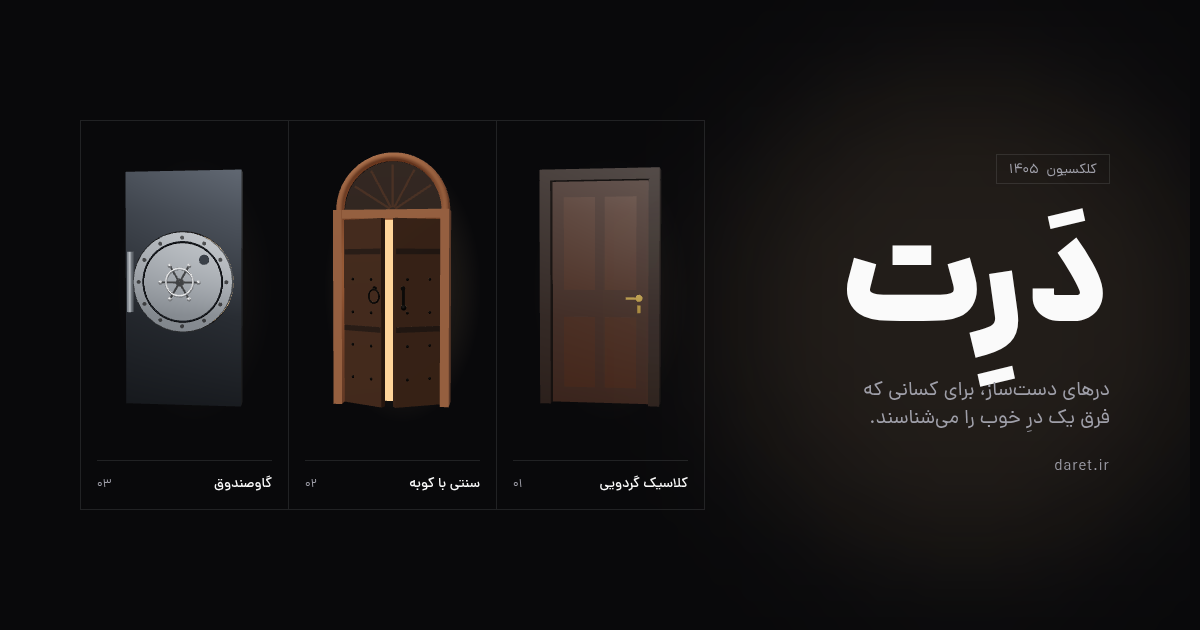
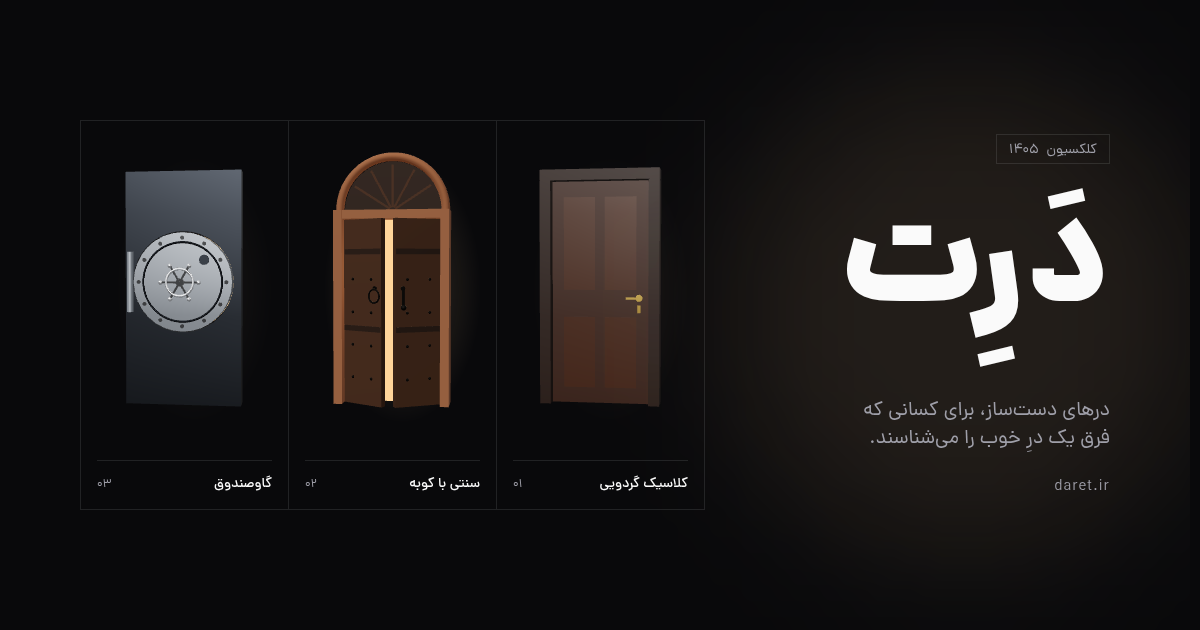
fix: fix the open-graph images

Changed region(s): [[0.7092, 0.2111, 0.925, 0.7841]]

diff --git a/app/og/page.tsx b/app/og/page.tsx
@@ -1,0 +1,54 @@
+import type { Metadata } from "next";
+
+import { notFound } from "next/navigation";
+
+import { DoorView } from "@/components/door-view";
+import { doors } from "@/lib/doors";
+
+// Dev-only source of `app/opengraph-image.png` and `app/twitter-image.png`. See .agents/docs/architecture.md#social-images.
+export const metadata: Metadata = { robots: { index: false } };
+
+const shown = [
+  { door: doors[0], open: 0 },
+  { door: doors[7], open: 0.3 },
+  { door: doors[8], open: 0 },
+];
+
+export default function SocialCardPage() {
+  if (process.env.NODE_ENV === "production") notFound();
+
+  return (
+    <div className="fixed inset-0 flex items-center justify-between gap-12 px-20">
+      {/* Keep the dev-tools badge out of the screenshot. */}
+      <style>{"nextjs-portal { display: none; }"}</style>
+      <div className="relative isolate flex flex-col items-start gap-6">
+        <div
+          aria-hidden
+          className="absolute top-1/2 left-1/2 -z-10 size-120 -translate-1/2 rounded-full bg-light/10 blur-3xl"
+        />
+        <span className="border px-3 py-1 text-sm tracking-[0.3em] text-muted-foreground">کلکسیون ۱۴۰۵</span>
+        {/* The kasra hangs below the tight line box; the padding keeps it off the tagline. */}
+        <h1 className="pb-10 text-[9rem] leading-none font-black">دَرِت</h1>
+        <p className="max-w-72 text-xl text-balance text-muted-foreground">
+          درهای دستساز، برای کسانی که فرق یک درِ خوب را میشناسند.
+        </p>
+        <span className="text-sm tracking-widest text-muted-foreground" dir="ltr">
+          daret.ir
+        </span>
+      </div>
+      <ul className="flex border-s border-t">
+        {shown.map(({ door, open }, index) => (
+          <li key={door.slug} className="w-52 border-e border-b p-4">
+            <DoorView slug={door.slug} open={open} className="aspect-9/16 w-full" />
+            <div className="mt-3 flex items-baseline justify-between border-t pt-3">
+              <span className="text-sm font-medium">{door.name}</span>
+              <span className="text-xs text-muted-foreground">
+                {(index + 1).toLocaleString("fa-IR", { minimumIntegerDigits: 2 })}
+              </span>
+            </div>
+          </li>
+        ))}
+      </ul>
+    </div>
+  );
+}

diff --git a/app/door/[slug]/page.tsx b/app/door/[slug]/page.tsx
@@ -1,20 +1,34 @@
-import type { Metadata } from "next";
+import type { Metadata, ResolvingMetadata } from "next";
 
 import { cn } from "cn";
 import { notFound } from "next/navigation";
 
 import { DoorView } from "@/components/door-view";
 import { ShareButton } from "@/components/share-button";
+import { openGraph, twitter } from "@/lib/config/metadata";
 import { doors, findDoor } from "@/lib/doors";
 
 export function generateStaticParams() {
   return doors.map(({ slug }) => ({ slug }));
 }
 
-export async function generateMetadata({ params }: PageProps<"/door/[slug]">): Promise<Metadata> {
+export async function generateMetadata(
+  { params }: PageProps<"/door/[slug]">,
+  parent: ResolvingMetadata,
+): Promise<Metadata> {
   const door = findDoor((await params).slug);
 
-  return door ? { title: `در ${door.name}` } : {};
+  if (!door) return {};
+
+  // Setting `openGraph`/`twitter` drops the inherited file-based images, so carry them over.
+  const { openGraph: parentOpenGraph, twitter: parentTwitter } = await parent;
+  const title = `در ${door.name}`;
+
+  return {
+    title,
+    openGraph: { ...openGraph, title, images: parentOpenGraph?.images ?? [] },
+    twitter: { ...twitter, title, images: parentTwitter?.images ?? [] },
+  };
 }
 
 export default async function DoorPage({ params }: PageProps<"/door/[slug]">) {

diff --git a/app/layout.tsx b/app/layout.tsx
@@ -6,6 +6,7 @@ import { ViewTransition } from "react";
 import { Providers } from "@/components/providers";
 import { SceneCanvas } from "@/components/three/scene-canvas";
 import { config } from "@/lib/config";
+import { openGraph, twitter } from "@/lib/config/metadata";
 import { danaFont } from "@/styles/fonts";
 
 export const metadata: Metadata = {
@@ -14,14 +15,8 @@ export const metadata: Metadata = {
   description: config.appDescription,
   applicationName: config.appName,
   keywords: ["در", "درت", "درب", "درب ضدسرقت", "Daret"],
-  openGraph: {
-    type: "website",
-    siteName: config.appName,
-    url: config.appHost,
-    title: config.appName,
-    description: config.appDescription,
-  },
-  twitter: { card: "summary_large_image", title: config.appName, description: config.appDescription },
+  openGraph,
+  twitter,
   robots: { index: true, follow: true, "max-image-preview": "large" },
   formatDetection: { telephone: false },
 };

diff --git a/lib/config/metadata.ts b/lib/config/metadata.ts
@@ -1,0 +1,18 @@
+import type { Metadata } from "next";
+
+import { config } from ".";
+
+// A page that sets `openGraph` or `twitter` replaces the layout's object entirely, so pages spread these to keep the rest.
+export const openGraph = {
+  type: "website",
+  siteName: config.appName,
+  url: config.appHost,
+  title: config.appName,
+  description: config.appDescription,
+} satisfies Metadata["openGraph"];
+
+export const twitter = {
+  card: "summary_large_image",
+  title: config.appName,
+  description: config.appDescription,
+} satisfies Metadata["twitter"];

diff --git a/.agents/docs/architecture.md b/.agents/docs/architecture.md
@@ -42,7 +42,17 @@ Modified clicks (new tab etc.) and `prefers-reduced-motion` skip the sequence an
 
 ## Social images
 
-`app/opengraph-image.png` (1200x630) and `app/twitter-image.png` (1200x600), with `*.alt.txt`, are static files picked up by Next's file convention for every route. They are screenshots of the real site (hero type + three grid cells with live 3D doors), not `next/og`: satori can't shape Persian text and doesn't read the woff2 fonts. To regenerate, temporarily add a route that renders that composition `fixed inset-0`, screenshot it in a browser at both sizes, and delete the route.
+`app/opengraph-image.png` (1200x630) and `app/twitter-image.png` (1200x600), with `*.alt.txt`, are static files picked up by Next's file convention. They are screenshots of `app/og/page.tsx` (`/og`), a dev-only composition built from the real site: hero type and three grid cells with live 3D doors. It is not `next/og`, because satori can't shape Persian text, doesn't read the woff2 fonts and can't draw WebGL. In production `/og` is a 404 and `noindex`.
+
+To change them, edit `app/og/page.tsx`, then capture it:
+
+1. `pnpm dev` and open `/og` in Chrome. The dev-tools badge is hidden on that page.
+2. DevTools → device toolbar → Responsive, set **1200 x 630**, DPR 1 → ⋮ → *Capture screenshot* → save as `app/opengraph-image.png`.
+3. Repeat at **1200 x 600** for `app/twitter-image.png`.
+
+Headless `chrome --screenshot` leaves the doors blank because its virtual time never paints WebGL; use a real browser or Playwright with a real wait. Update `*.alt.txt` if the doors shown change.
+
+Door pages set their own `openGraph`/`twitter` titles. Setting those objects replaces the layout's, so `app/door/[slug]/page.tsx` spreads the shared base from `lib/config/metadata.ts` and carries over the parent's resolved images.
 
 ## Icons
 
